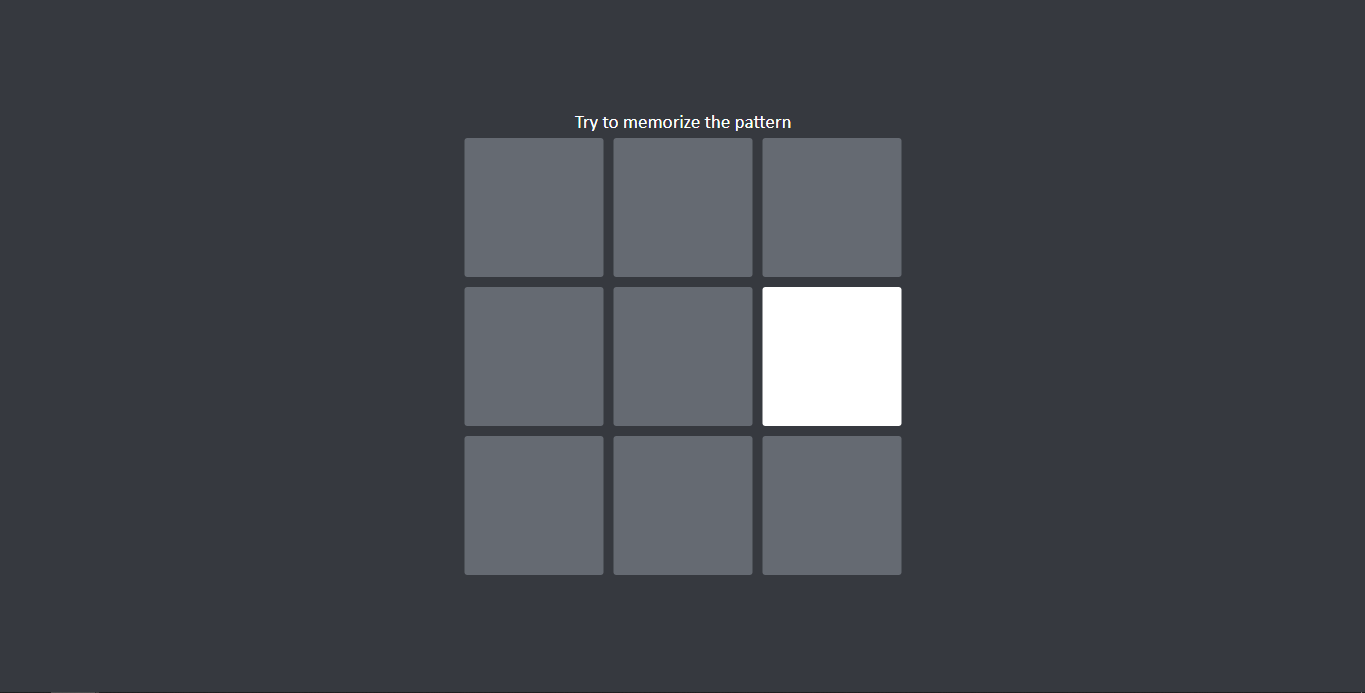
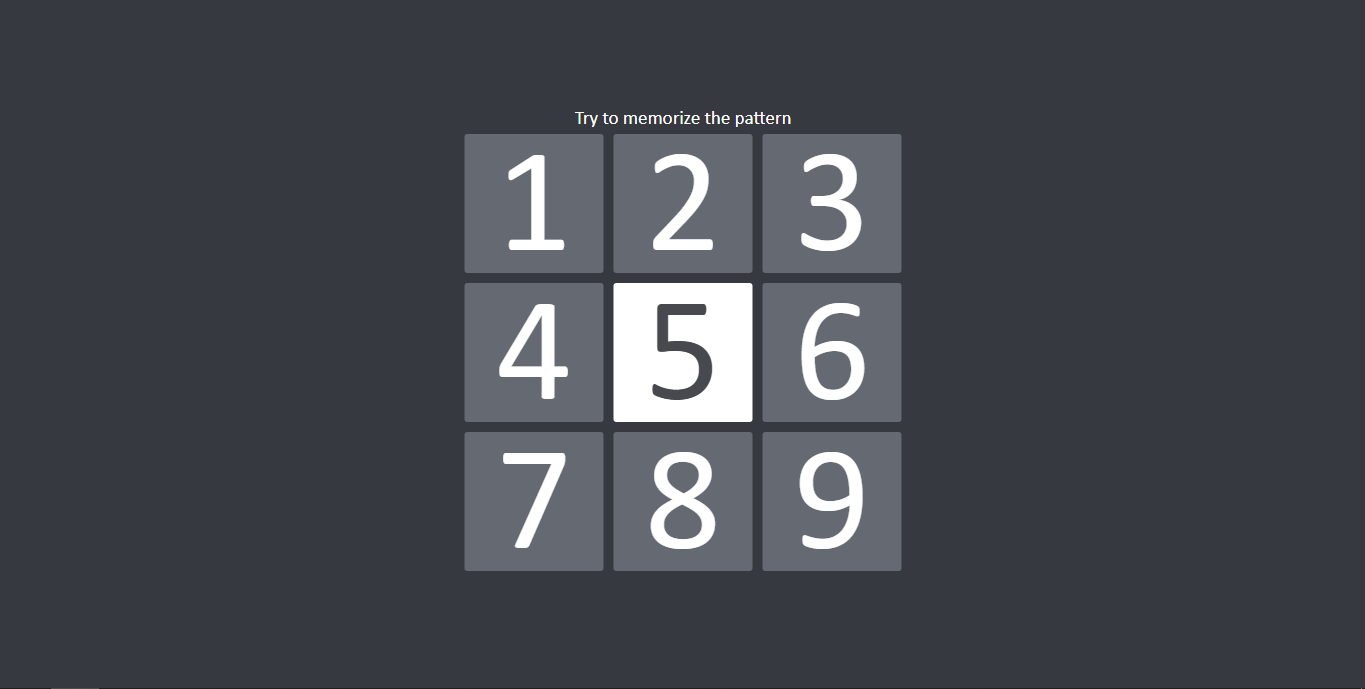
fixes

Changed region(s): [[0.3385, 0.3962, 0.6769, 0.7925], [0.3385, 0.1524, 0.6462, 0.3657]]

diff --git a/memory/script.js b/memory/script.js
@@ -24,7 +24,7 @@
         let boxes = null;
         (async () => {
             const starting = async () => {
-                boxesDiv.innerHTML = [..." ".repeat(tableSize())].map((_, j) => `<div>${[..." ".repeat(tableSize())].map((_, jj) => `<div data-box-id="${j * tableSize() + jj}"></div>`).join("")}</div>`).join("");
+                boxesDiv.innerHTML = [..." ".repeat(tableSize())].map((_, j) => `<div>${[..." ".repeat(tableSize())].map((_, jj) => `<div data-box-id="${j * tableSize() + jj}"><div>${j * 3 + jj + 1}</div></div>`).join("")}</div>`).join("");
                 boxes = Array.from(boxesDiv.querySelectorAll("div > div")).filter(i => i.getAttribute("data-box-id"));
                 boxes.forEach(i => {
                     i.style.width = Math.min(innerWidth, innerHeight) * .6 / tableSize() + "px";
@@ -46,8 +46,10 @@
                 for (let i = 0; i < lights.length; i++) {
                     const light = lights[i];
                     light.style.backgroundColor = "white";
+                    light.firstChild.style.color = "#47494f";
                     await wait(speed());
                     light.style.backgroundColor = "";
+                    light.firstChild.style.color = "";
                     await wait(speed());
                 }
                 textDiv.innerHTML = "Click the boxes you have just seen";

diff --git a/memory/style.css b/memory/style.css
@@ -35,11 +35,19 @@ body {
     margin: 5px;
     border-radius: 3px;
     cursor: pointer;
-    transition: scale .1s, background-color .1s, filter .1s;
+    transition: scale .1s, background-color .1s, filter .1s
 }
 
 .boxes > div > div:hover {
     scale: 1.1;
     background-color: #82868d;
     filter: brightness(.8);
+}
+
+.boxes > div > div > div {
+    color: white;
+    transition: color .1s;
+    margin-top: calc(50% - 5px);
+    translate: 0 -50%;
+    font-size: 150px;
 }

diff --git a/README.md b/README.md
@@ -5,16 +5,24 @@ Fun web games I made
 
 [Equation Finding Game](https://larvance.github.io/web-games/math/index.html)
 
-![](./screenshots/equation-finding.png)
+![](screenshots/equation-finding.png)
 
 ****
 
 [Number Memorization Game](https://larvance.github.io/web-games/visual/index.html)
 
-![](./screenshots/visual.png)
+![](screenshots/visual.png)
 
 ****
 
 [Visual Memorization Game](https://larvance.github.io/web-games/memory/index.html)
 
-![](./screenshots/memory.png)
+![](screenshots/memory.png)
+
+# todo
+
+- sudoku
+- text memorization
+- fast text reading
+- fast typing
+- monke number memorization
